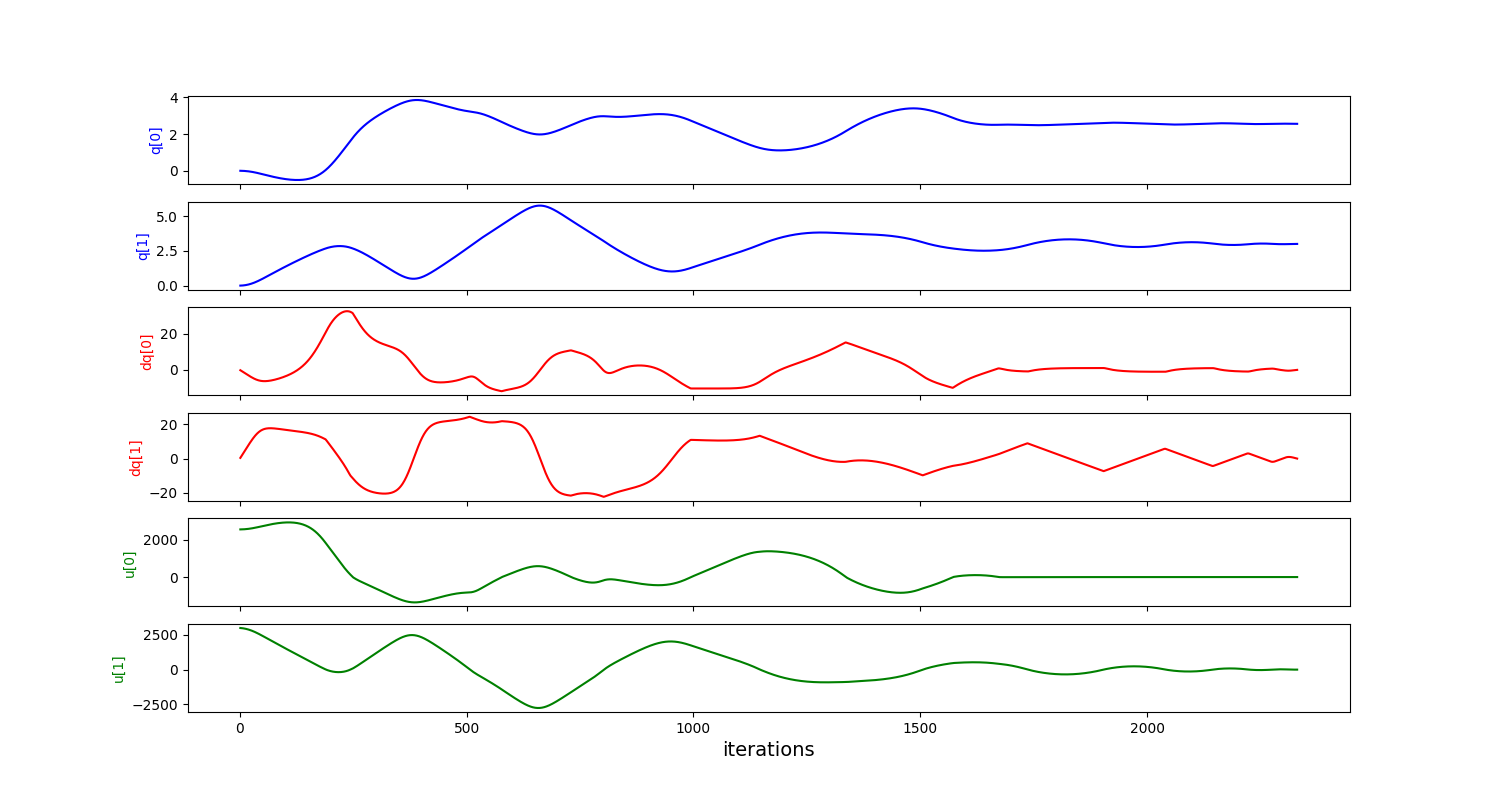
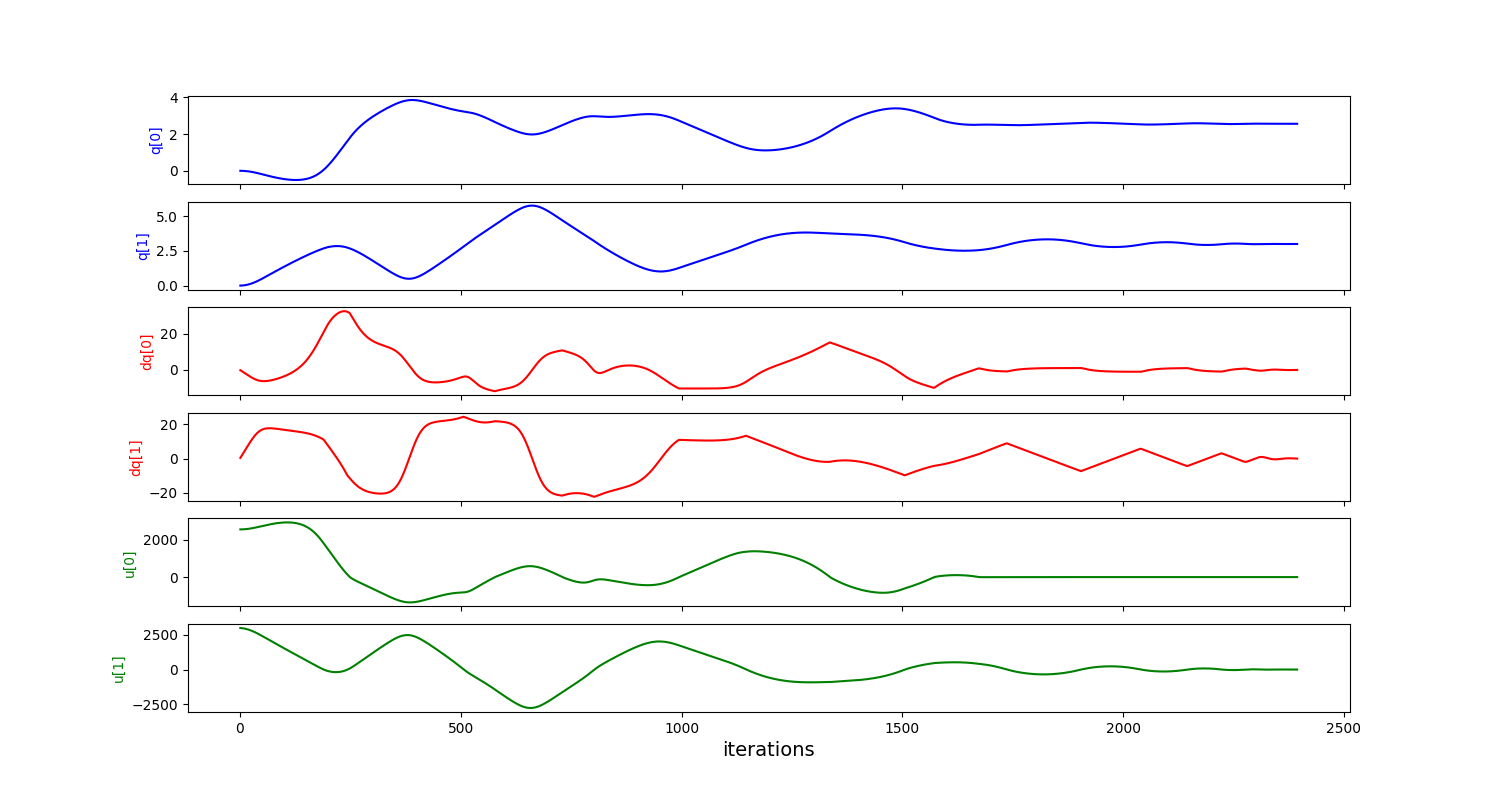
amend absolute stopping condition for LQR

diff --git a/deeprl_hw3/ilqr.py b/deeprl_hw3/ilqr.py
@@ -1,8 +1,6 @@
 """LQR, iLQR and MPC."""
 
-from deeprl_hw3.controllers import approximate_A, approximate_B
 import numpy as np
-import scipy.linalg
 
 import controllers as ctl
 
@@ -172,17 +170,10 @@ def calc_ilqr_input(env, sim_env, tN=50, max_iter=1000000):
         # env.render()  # optionally can render during training
         costs.append(new_cost)
 
-        # Stopping Condition 1:
-        # set stopping condition based on the cost
-        # if abs(new_cost - current_cost) / float(current_cost) <= float(1e-3):
-        #     print("early stopping at loop {}, cost = {}".format(i, new_cost))
-        #     break
-
         # update control sequences
         U = np.copy(U_new)
         current_cost = new_cost
 
-        # Stopping condition 2
         # test with real env whether it can reach goal close enough in the real env.
         # if so, early stop!
         x_next = np.zeros((4,))
@@ -195,6 +186,7 @@ def calc_ilqr_input(env, sim_env, tN=50, max_iter=1000000):
         # collect stats
         rewards.append(reward)
 
+        # Stopping condition
         if np.sum(np.square(env.goal - x_next)) <= 1e-3:
             print("***Close enough to goal, stopping now at iteration {}!***".format(i))
             break

diff --git a/LQR.py b/LQR.py
@@ -64,10 +64,15 @@ def control_lqr(env_name="TwoLinkArm-v0"):
         # show time
         env.render()
 
-        # early stopping
-        if np.sum(np.square(env.goal - env.state)) <= 1e-3:
-            print("\n\nConverged! Early stopping at loop {}... \n".format(count))
+        #true stopping condition
+        if is_done:
+            print("Terminal state reached at loop {}".format(count))
             break
+
+        # early stopping
+        # if np.sum(np.square(env.goal - env.state)) <= 1e-3:
+        #     print("\n\nConverged! Early stopping at loop {}... \n".format(count))
+        #     break
 
     print(rewards)
     print("Total rewards: {}".format(np.sum(rewards)))

diff --git a/deeprl_hw3/mpc.py b/deeprl_hw3/mpc.py
@@ -82,6 +82,9 @@ def faster_calc_mpc_input(env, sim_env, tN=50, max_iter=1000000):
         U, _, _, _ = ilqr_fast.calc_ilqr_input(env, sim_env, tN, max_iter)
         # U, _, _, _ = ilqr.calc_ilqr_input(env, sim_env, tN, max_iter)
 
+        # re-assign starting env.
+        env.state = X_mpc[t* (tN/n_groups)]
+
         # update x_t and record u_t for next timestep's optimization
         for i in range(tN/n_groups):
             current_x, _, _, _ = env.step(U[i])

diff --git a/deeprl_hw3/ilqr_fast.py b/deeprl_hw3/ilqr_fast.py
@@ -58,7 +58,7 @@ def cost_inter(env, x, u):
     l = np.sum(np.square(u))
 
     # adding regularization term
-    # l += 10**4 * np.sum(np.square(x - env.goal))
+    l += 10**4 * np.sum(np.square(x - env.goal))
 
     # derivatives w.r.t x are all Zeros
     l_x = np.zeros(x.shape[0])
